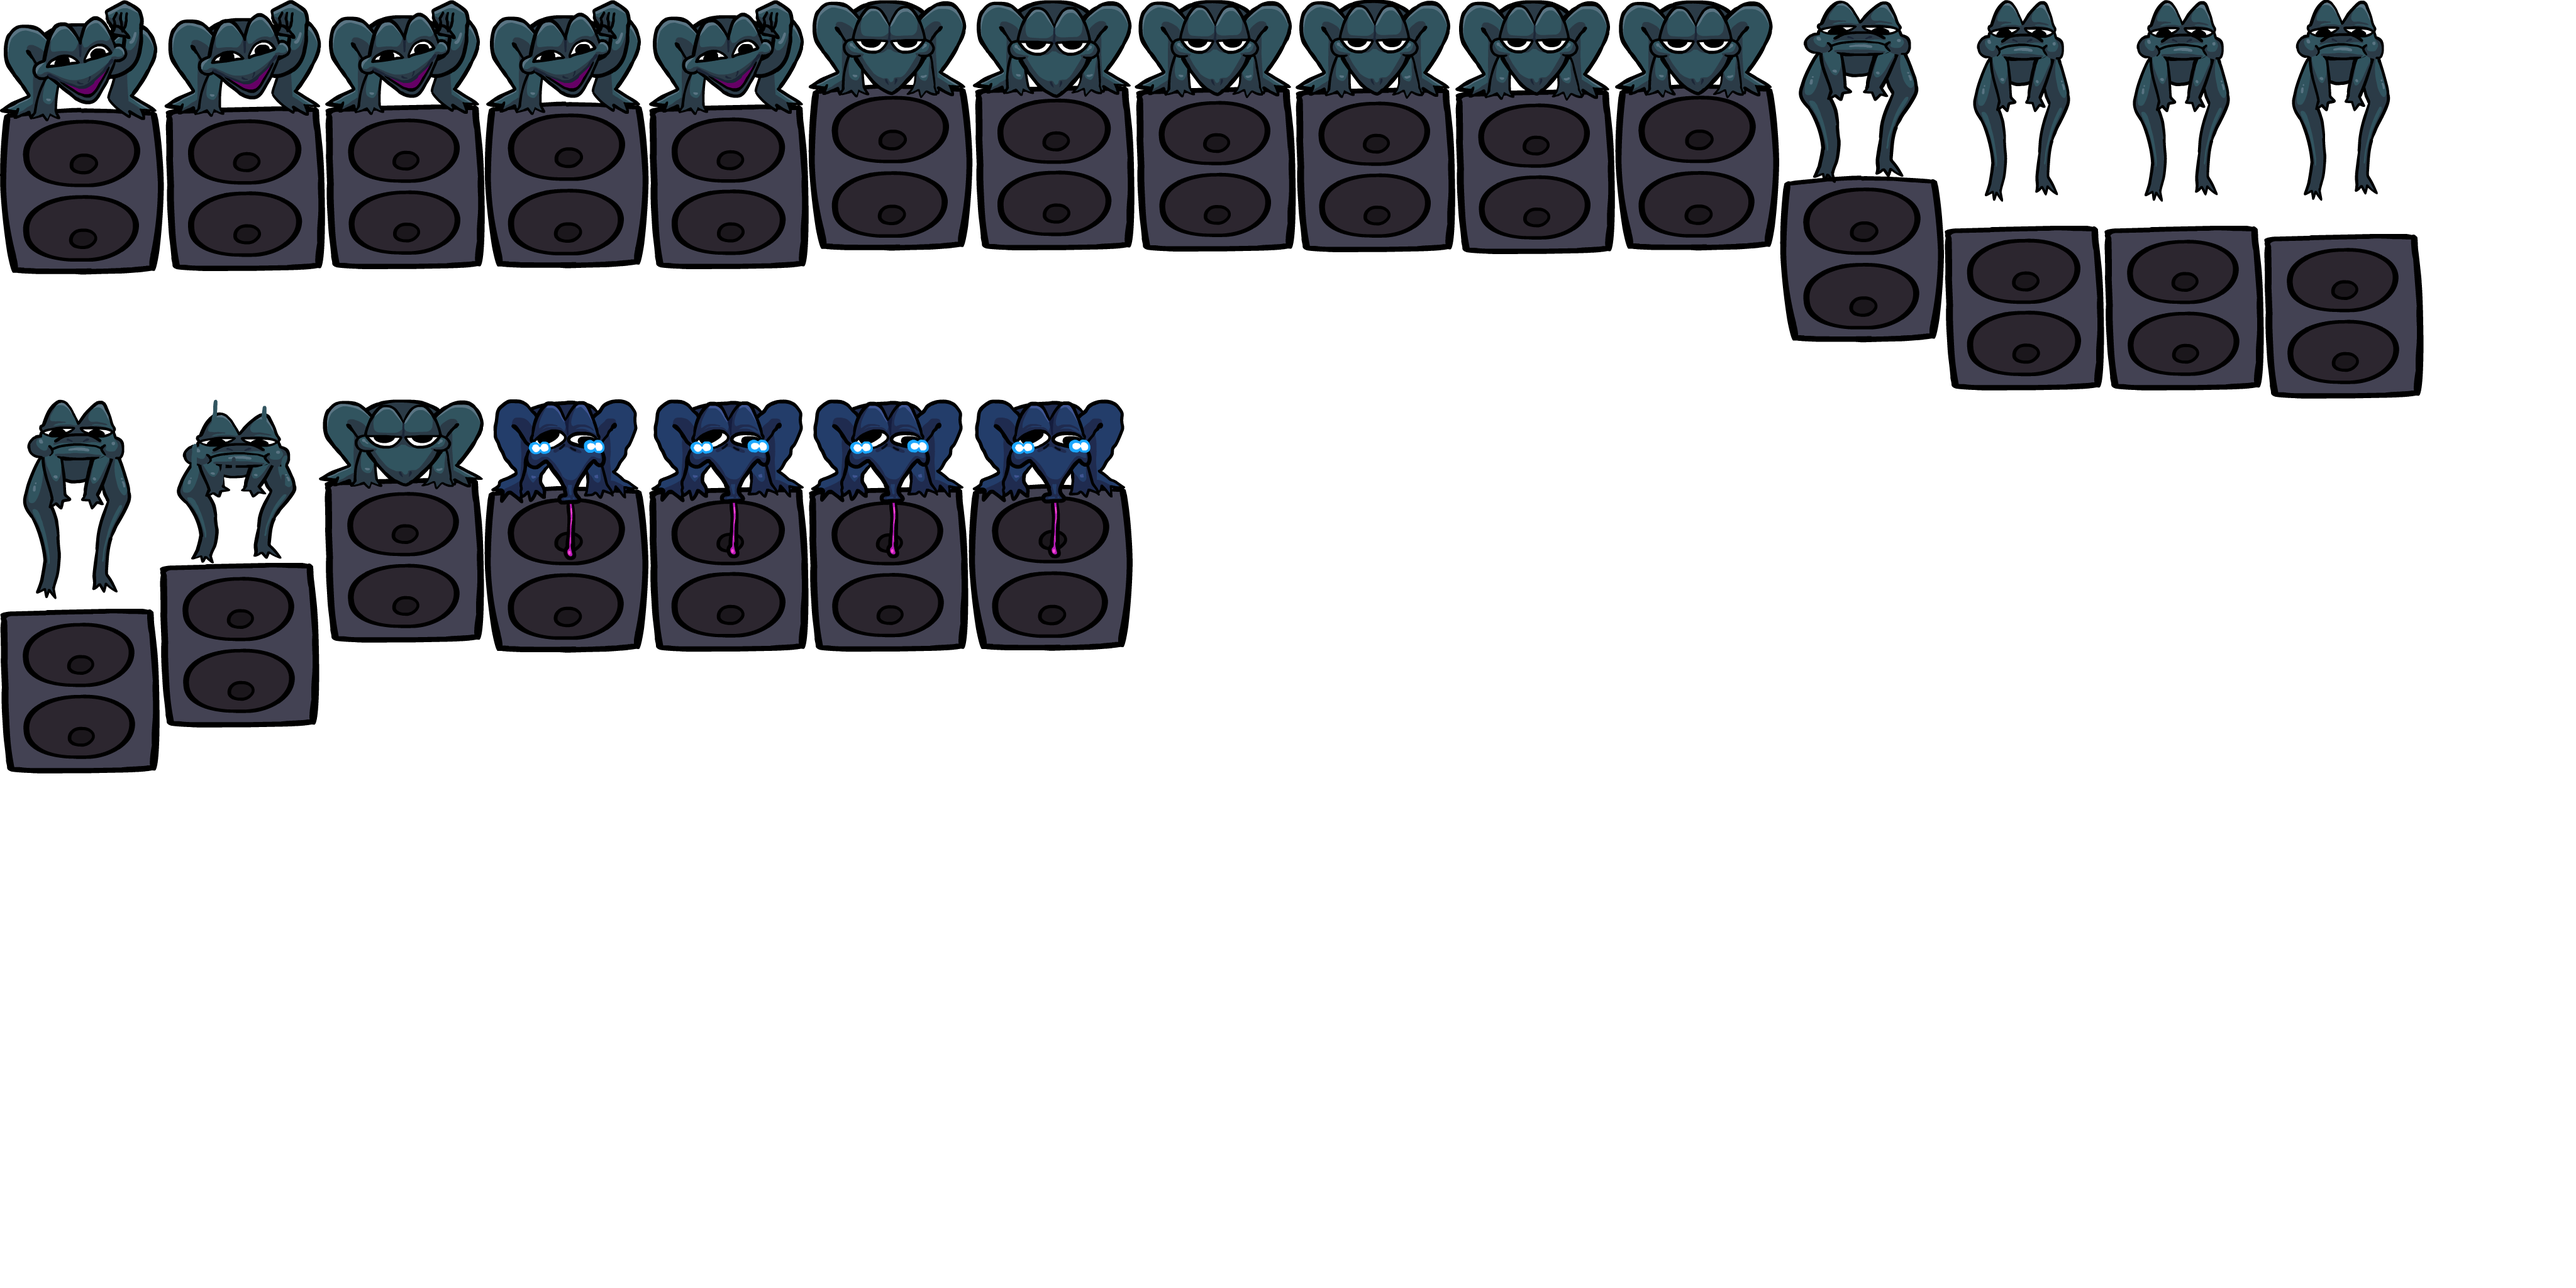
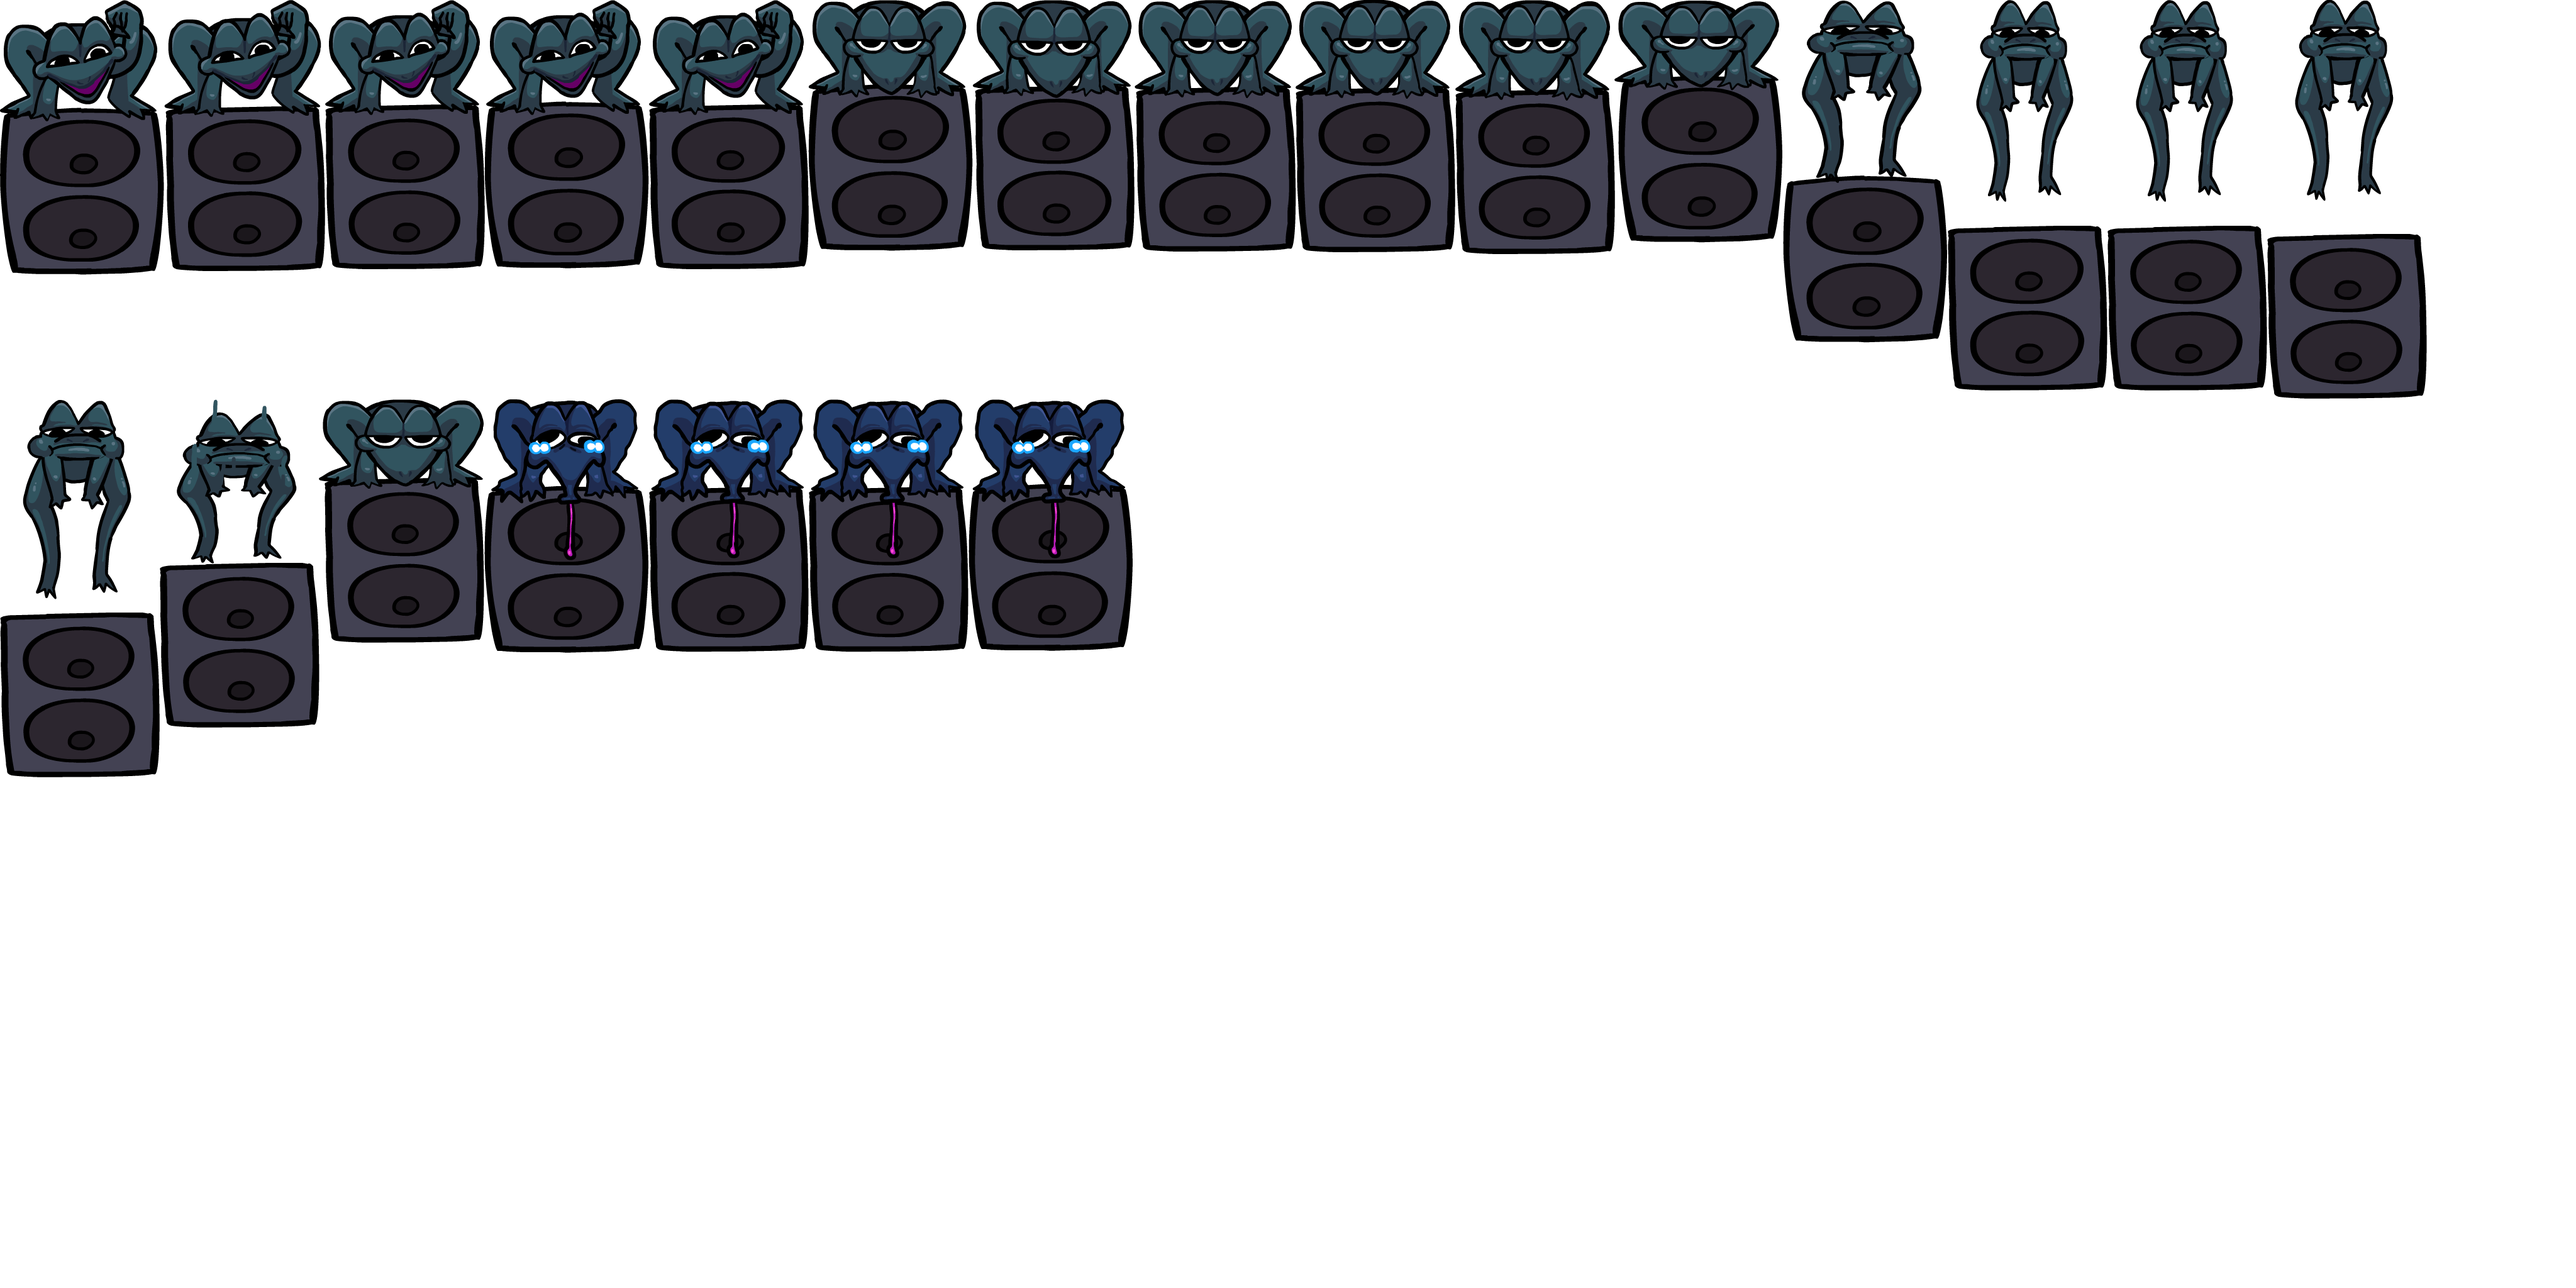
fixed Frog System
fixed Frog Dance Jump System

Changed region(s): [[0.625, 0.0, 0.9375, 0.3125], [0.0, 0.4688, 0.0625, 0.625]]

diff --git a/changelog.md b/changelog.md
@@ -2,6 +2,10 @@
 
 ## FORMAT: MAJOR.MINOR.PATCH
 
+## [2.1.5]
+- Added Visitor Playable!
+- Added Frog Speaker Bopper!
+
 ## [2.0.3]
 - Added Pixel Visitor X-MAS Freeplay Icon
 - Fixed Pico DJ and Pico results bug
